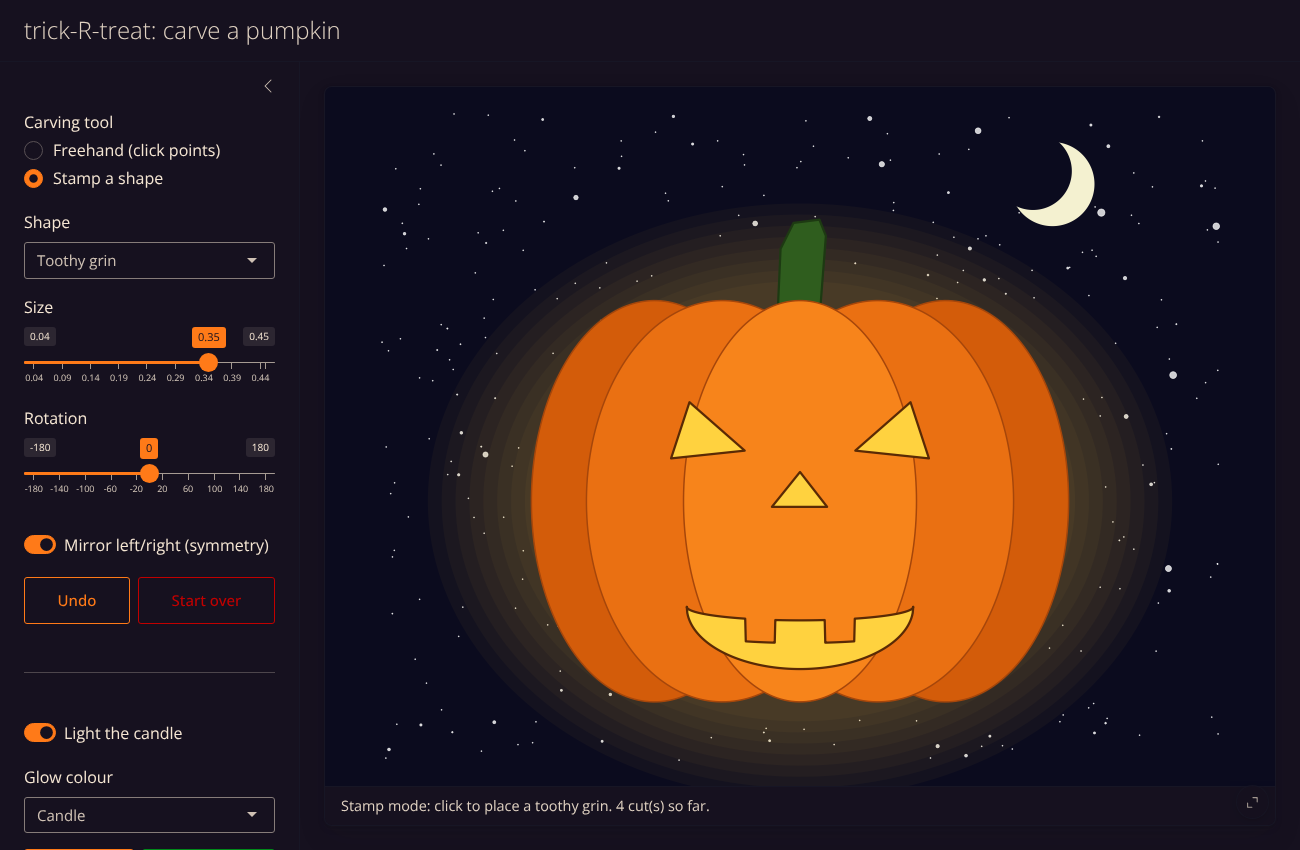
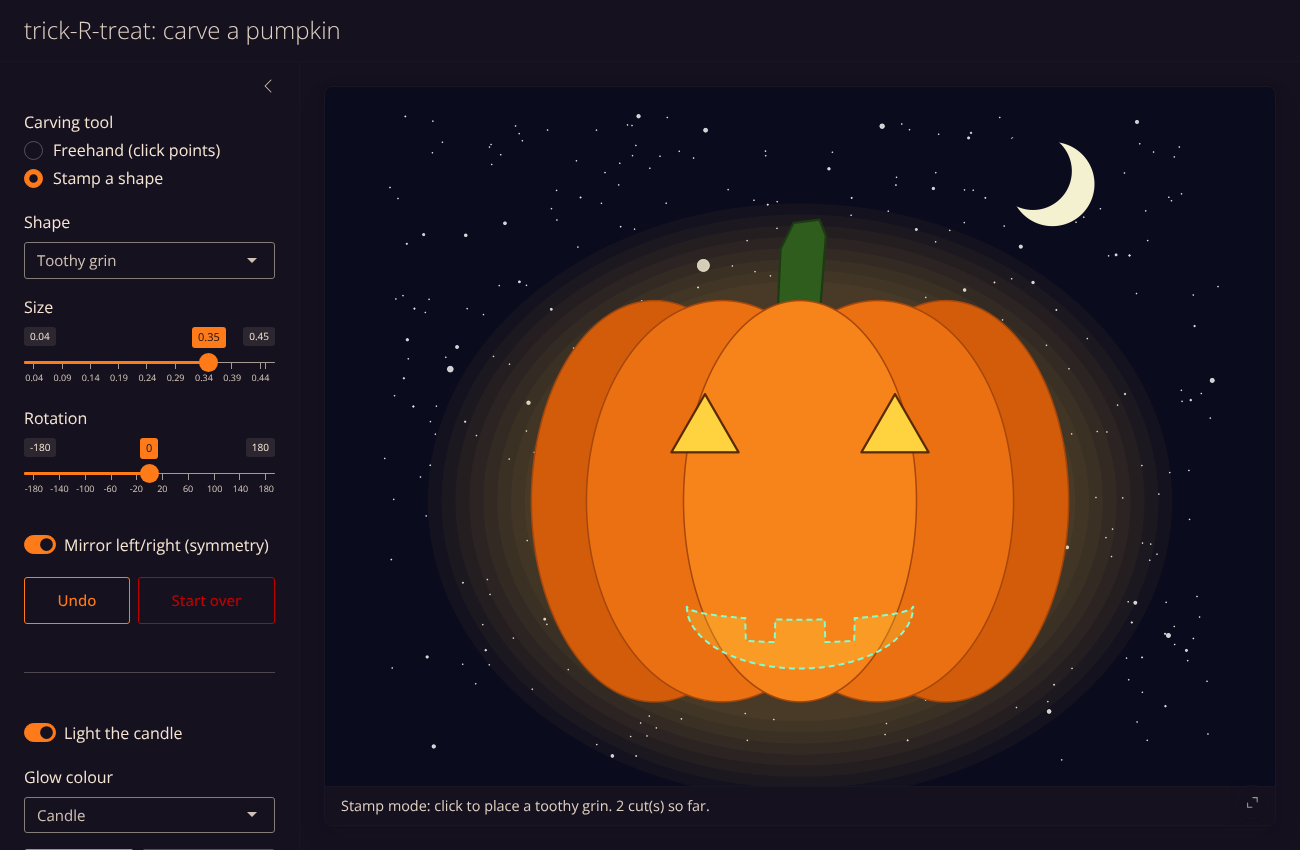
Add stamp preview that follows the mouse
A dashed outline of the selected stamp (and its mirrored copy) is drawn
client-side on an SVG overlay, so it tracks the cursor without
re-rendering the R plot. The server sends the stamp outline and the
plot's par("usr") so the preview lines up with where clicks land.

Claude-Session: https://claude.ai/code/session_013SjAhX15AQkyqrgxqw3wvR

diff --git a/README.md b/README.md
@@ -17,7 +17,7 @@ shiny::runApp()                        # from the project folder
 ```
 
 * **Freehand:** click on the pumpkin to drop points. Close the shape by clicking the first point again, or by pressing **Enter**/**Finish shape**. Tick *Smooth curved edges* for rounder cuts.
-* **Stamp a shape:** click to place ready-made triangles, circles, diamonds, stars, grins or toothy grins. Use the sliders to change size and rotation.
+* **Stamp a shape:** a dashed outline follows your mouse to show where the shape will go, mirrored copy included. Click to place ready-made triangles, circles, diamonds, stars, grins or toothy grins. Use the sliders to change size and rotation.
 * **Mirror left/right:** carve one eye and the other appears automatically. Shapes placed on the centre line, like a nose, are not doubled.
 * **Undo** (or Backspace) removes the last point or cut. **Esc** cancels the shape in progress. **Start over** clears everything.
 * Light or snuff out the candle, pick a glow colour, roll a **New sky**, and **Save PNG** to keep your jack-o'-lantern.
